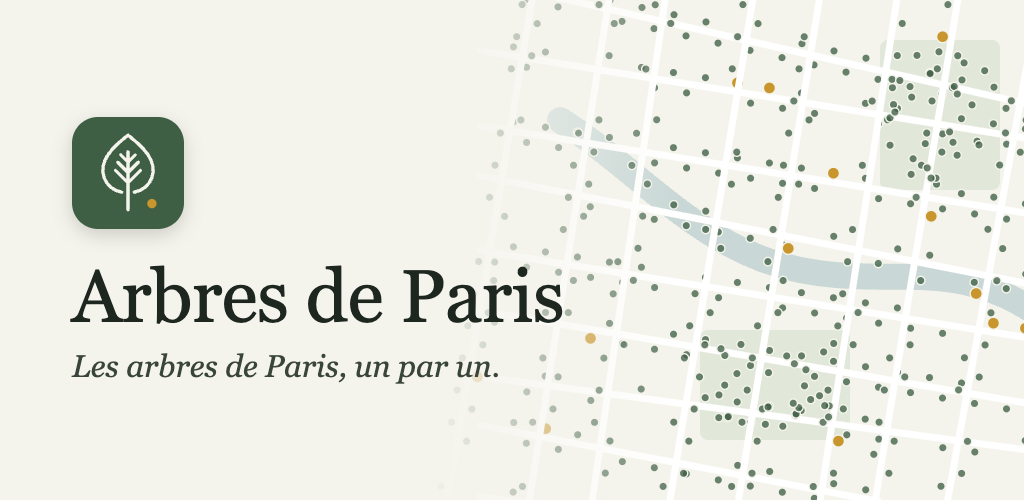
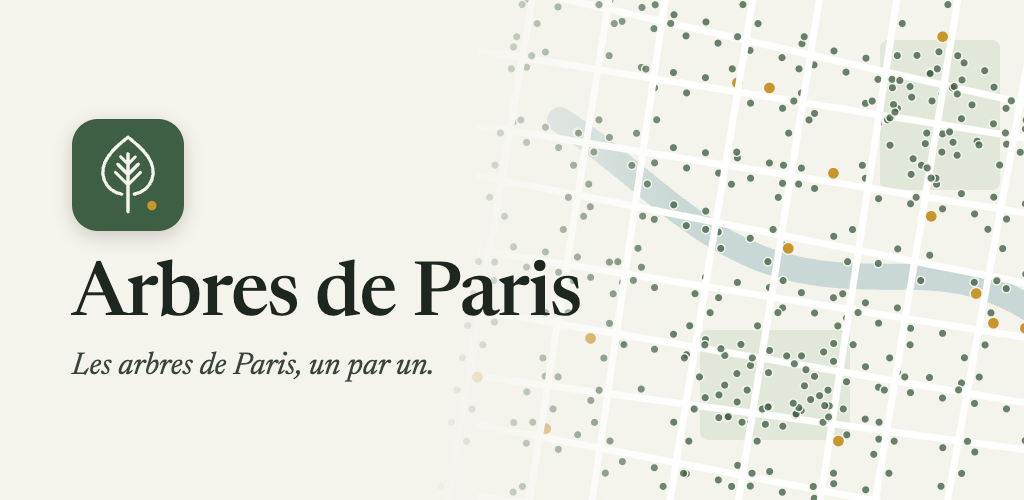
fix(app): load the website fonts in the feature graphic again
The relative font path broke when the app moved into android/, so the
feature graphic fell back to Georgia. Re-rendered with Newsreader.

diff --git a/android/fastlane/artwork/feature-graphic.html b/android/fastlane/artwork/feature-graphic.html
@@ -1,5 +1,5 @@
 <!doctype html><html><head><meta charset="utf-8"><style>
-@font-face{font-family:N;src:url(../../website/fonts/newsreader.woff2)}@font-face{font-family:NI;src:url(../../website/fonts/newsreader-italic.woff2);font-style:italic}@font-face{font-family:I;src:url(../../website/fonts/inter.woff2)}
+@font-face{font-family:N;src:url(../../../website/fonts/newsreader.woff2)}@font-face{font-family:NI;src:url(../../../website/fonts/newsreader-italic.woff2);font-style:italic}@font-face{font-family:I;src:url(../../../website/fonts/inter.woff2)}
 html,body{margin:0;width:1024px;height:500px;overflow:hidden;background:#F4F3EC}
 .wrap{position:relative;width:1024px;height:500px}
 #map{position:absolute;inset:0}
